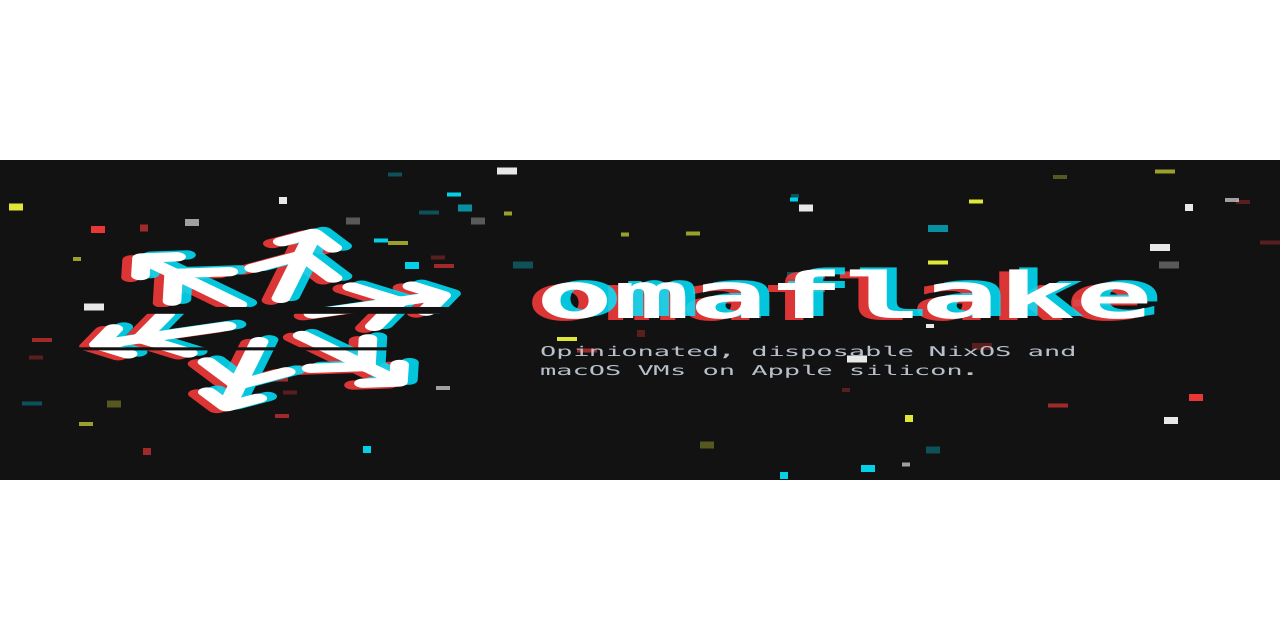
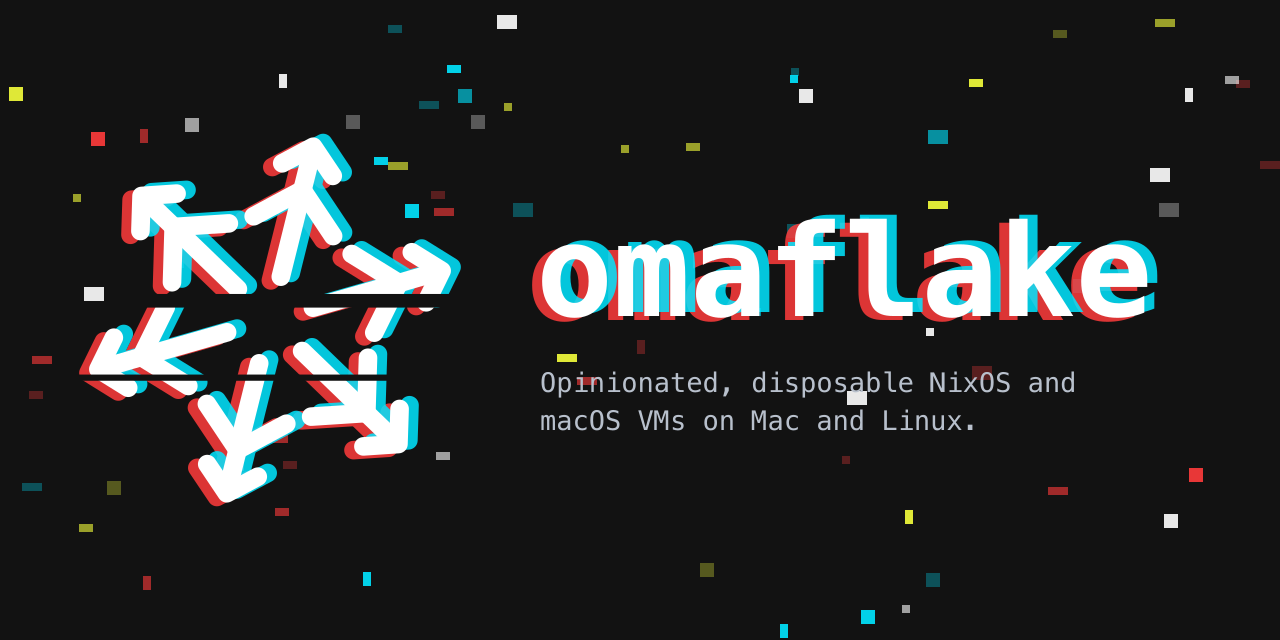
Profile: omaflake on Mac and Linux, links to download and docs
New banner, a Mac and Linux point, Doctor and status for both hosts, a
link line with Download, Documentation, Recipes and Discussions.

diff --git a/profile/README.md b/profile/README.md
@@ -1,27 +1,34 @@
 <p align="center">
-  <img src="assets/omaflake-banner.png" alt="omaflake – clean, disposable NixOS and macOS VMs on Apple silicon" width="100%">
+  <img src="assets/omaflake-banner.png" alt="omaflake – clean, disposable NixOS and macOS VMs on Mac and Linux" width="100%">
 </p>
 
-**Clean, disposable NixOS and macOS virtual machines on Apple silicon – one click away.**
+**Clean, disposable NixOS and macOS virtual machines on Mac and Linux – one click away.**
 
-omaflake builds VM templates from **recipes** you declare in Nix and runs disposable VMs from them – from a menu bar
-app or the `omaf` CLI. Templates never change: *reset* throws a VM's state away and starts over.
+[Download](https://omaflake.app) · [Documentation](https://omaflake.dev) · [Recipes](https://github.com/omaflake/recipes) ·
+[Discussions](https://github.com/orgs/omaflake/discussions)
 
+omaflake builds VM templates from **recipes** you declare in Nix and runs disposable VMs from them – from an app (the menu
+bar on a Mac, a native window on Linux), `omaf ui` or the `omaf` CLI. Templates never change: *reset* throws a VM's state away and starts over.
+
+- **Mac and Linux:** a Mac with Apple silicon runs NixOS and macOS guests; a Linux PC with Nix (or NixOS), x86_64 or
+  aarch64, runs NixOS guests with KVM.
 - **Two guest kinds:** NixOS on QEMU (3D with virglrenderer) and macOS on Virtualization.framework – the macOS base is
   installed from Apple's restore image without manual steps.
 - **Recipes from sources:** the official catalog, other GitHub repositories (also private), or a local folder – share
   recipes, not machines.
-- **Integrated:** sound and microphone, shared clipboard with text and images, the Mac's camera in NixOS guests,
+- **Integrated:** sound and microphone, shared clipboard with text and images, the host's camera in NixOS guests,
   shared folders, dynamic resolution, ephemeral VMs.
 - **Portable:** export VMs, templates and recipes as packages to an external disk and back, or run a VM from there.
-- **Doctor:** checks what the Mac brings and sets up Nix, nix-darwin and the Linux builder by click.
+- **Doctor:** checks what the computer brings and names the fix; on a Mac it sets up Nix, nix-darwin and the Linux
+  builder by click.
 
 | Repository | What |
 |---|---|
-| [omaflake](https://github.com/omaflake/omaflake) | the app, the `omaf` CLI, the macOS runner, the patched QEMU and the image flake |
+| [omaflake](https://github.com/omaflake/omaflake) | the apps for macOS and Linux, the `omaf` CLI, the macOS runner, the patched QEMU and the image flake |
 | [recipes](https://github.com/omaflake/recipes) | the official recipe catalog – and the template for your own recipe source |
 | [website](https://github.com/omaflake/website) | omaflake's landing page |
 
-> **Status:** alpha, unsigned – download at [omaflake.app](https://omaflake.app). Needs a Mac with Apple silicon and macOS 27.
+> **Status:** alpha, unsigned – download at [omaflake.app](https://omaflake.app). Runs on a Mac with Apple silicon and macOS 27, or on
+> Linux with Nix (NixOS guests only).
 
 <sub>omaflake is free software (AGPL-3.0-or-later; its recipes MIT) and a project of <a href="https://falkoss.org">falkOSS</a> – Falcon Lake Open Source Software gUG (haftungsbeschränkt) i. G., from Falkensee.</sub>
